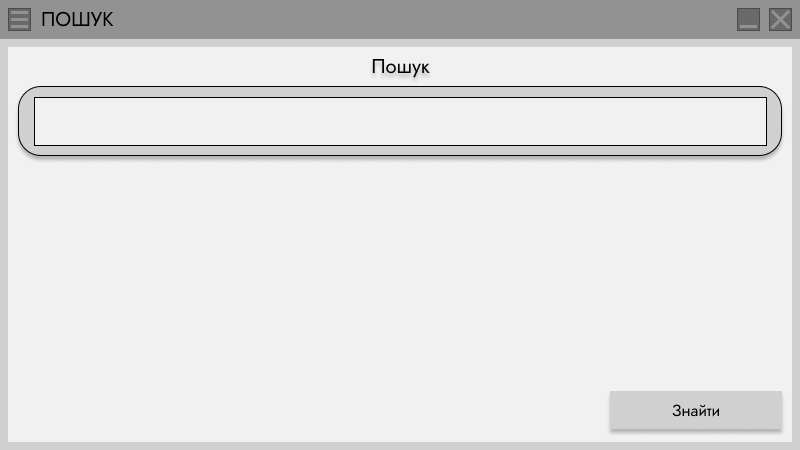
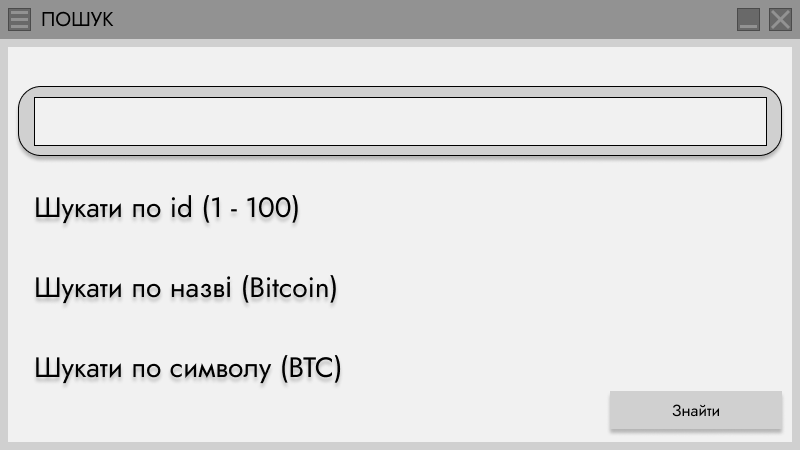
Minor search improvements

diff --git a/Views/SearchWindow.xaml b/Views/SearchWindow.xaml
@@ -14,7 +14,7 @@
         <Button x:Name="btnClose" Margin="769,8,8,419" Opacity="0" Click="btnClose_Click"/>
         <Button x:Name="btnMenu" Margin="8,8,769,419" Opacity="0" Click="btnMenu_Click" />
 
-        <TextBox x:Name="tbSearch" HorizontalAlignment="Center" Margin="0,99,0,0" TextWrapping="Wrap" VerticalAlignment="Top" Width="720" Height="45" BorderThickness="0,0,0,0" FontSize="36" FontFamily="Jost" TextAlignment="Right" Background="{x:Null}"/>
+        <TextBox x:Name="tbSearch" HorizontalAlignment="Center" Margin="0,99,0,0" TextWrapping="Wrap" VerticalAlignment="Top" Width="720" Height="45" BorderThickness="0,0,0,0" FontSize="36" TextAlignment="Right" Background="{x:Null}" KeyDown="tbSearch_KeyDown"/>
 
         <Button x:Name="btnSearch" Opacity="0" Margin="610,391,18,20" Click="btnSearch_Click"/>
 

diff --git a/Views/SearchWindow.xaml.cs b/Views/SearchWindow.xaml.cs
@@ -2,20 +2,11 @@
 using CoinView.Services;
 using CoinView.Utils;
 using System;
-using System.Collections.Generic;
 using System.Linq;
-using System.Text;
-using System.Text.RegularExpressions;
-using System.Threading.Tasks;
 using System.Windows;
 using System.Windows.Controls;
-using System.Windows.Data;
-using System.Windows.Documents;
 using System.Windows.Input;
-using System.Windows.Media;
 using System.Windows.Media.Animation;
-using System.Windows.Media.Imaging;
-using System.Windows.Shapes;
 
 namespace CoinView.Views
 {
@@ -29,6 +20,7 @@ namespace CoinView.Views
         public SearchWindow()
         {
             InitializeComponent();
+            tbSearch.Focus();
             UpdateCurrencyData();
         }
 
@@ -96,22 +88,17 @@ namespace CoinView.Views
 
         private void btnSearch_Click(object sender, RoutedEventArgs e)
         {
-            var id = SearchBy(tbSearch.Text);
-            if (id == -1)
+            SearchBy();
+        }
+        private void tbSearch_KeyDown(object sender, KeyEventArgs e)
+        {
+            if (e.Key == Key.Enter)
             {
-                MessageBox.Show($"Не знайдено жодного запису по запиту \"{tbSearch.Text}\"");
-            }
-            else
-            {
-                var topListWindow = new TopListWindow(id - 1);
-                topListWindow.Left = this.Left;
-                topListWindow.Top = this.Top;
-                topListWindow.Show();
-                Close();
+                SearchBy();
             }
         }
 
-        int SearchBy(string searchText)
+        private int GetSearchingId(string searchText)
         {
             if (int.TryParse(searchText, out int rank) && rank >= 1 && rank <= 100)
             {
@@ -141,6 +128,23 @@ namespace CoinView.Views
 
             // Не було знайдено нічого
             return -1;
+        }
+
+        private void SearchBy()
+        {
+            int id = GetSearchingId(tbSearch.Text);
+            if (id == -1)
+            {
+                MessageBox.Show($"Не знайдено жодного запису по запиту \"{tbSearch.Text}\"");
+            }
+            else
+            {
+                var topListWindow = new TopListWindow(id - 1);
+                topListWindow.Left = this.Left;
+                topListWindow.Top = this.Top;
+                topListWindow.Show();
+                Close();
+            }
         }
 
         private async void UpdateCurrencyData()
